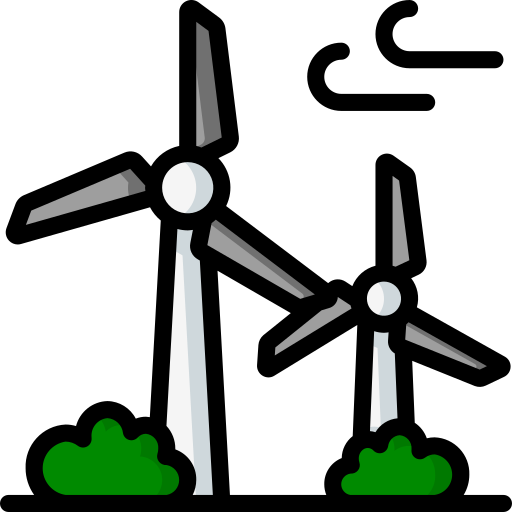
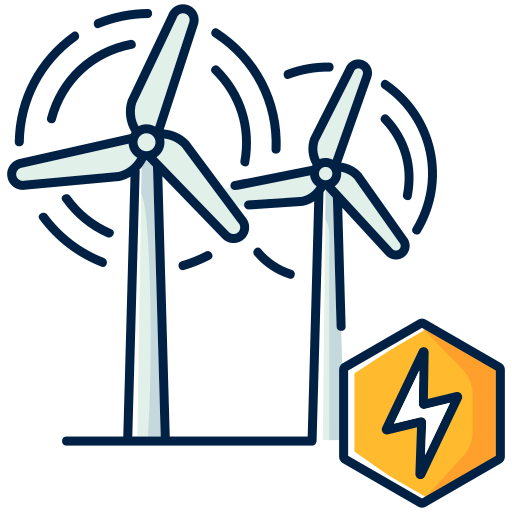
changed image

diff --git a/index.html b/index.html
@@ -60,7 +60,7 @@
       Built for reliability teams keeping assets running. MIT licensed.
     </footer>
     <div class="credit">
-      <a href="https://www.flaticon.com/free-icons/wind-turbine" title="wind turbine icons">Wind turbine icons created by Smashicons - Flaticon</a>
+      <a href="https://www.flaticon.com/free-icons/wind-power-plant" title="wind power plant icons">Wind power plant icons created by bsd - Flaticon</a>
     </div>
   </div>
 </body>
